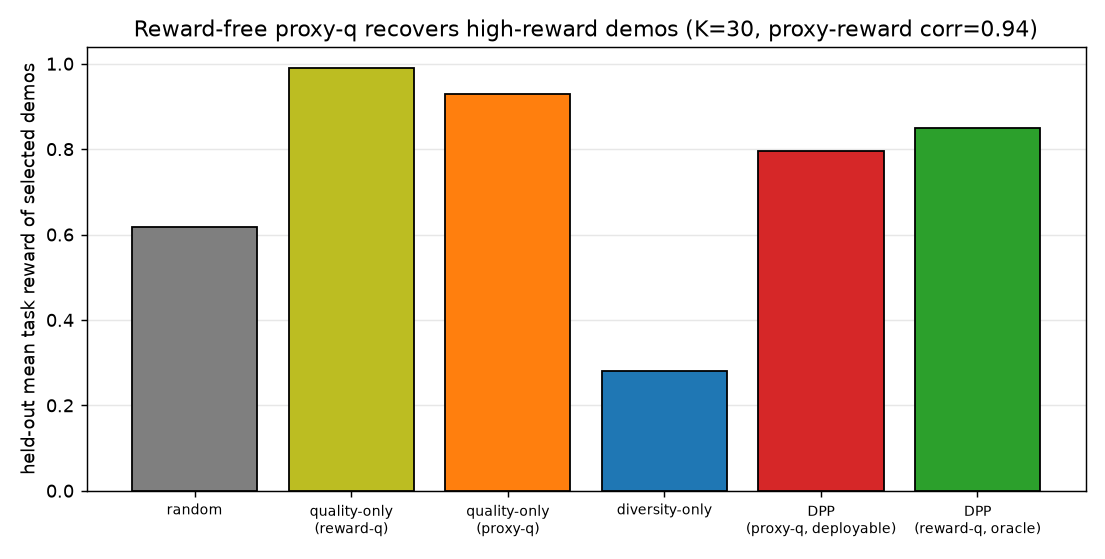
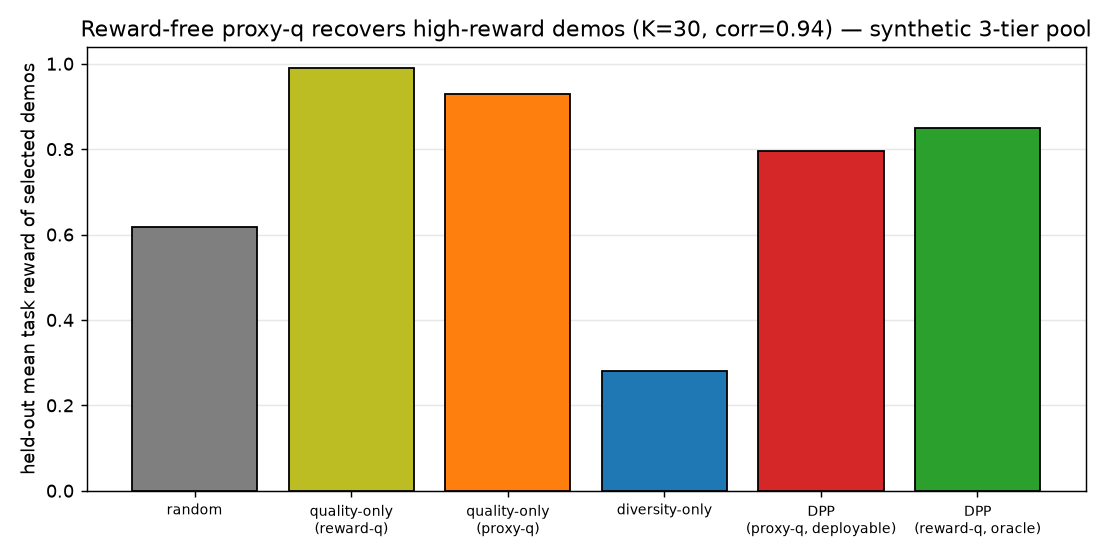
M1.5 turnkey: proxy-q study runs on real PushT/ALOHA; README status box
Generalizes experiments/proxy_vs_oracle.py to --source {synthetic,pusht,aloha}; real datasets load reward-free kinematics via the adapter (return_kinematics) and use reward terciles for the composition diagnostic. Adds a Status box to the README so synthetic sanity checks are not mistaken for robot-learning evidence, and documents the one-command real-data runs. Synthetic path unchanged; 31 tests pass.

Changed region(s): [[0.0615, 0.0304, 1.0, 0.0912]]

diff --git a/experiments/proxy_vs_oracle.py b/experiments/proxy_vs_oracle.py
@@ -1,8 +1,8 @@
-"""Milestone-2.5: offline non-circular curation study on a 3-tier pool.
+"""M1.5 / M2.5: reward-free proxy-q curation study (synthetic OR real datasets).
 
-Compares six selectors on a labeled expert/clumsy/noisy pool and evaluates every
-selection against the HELD-OUT task reward/success -- a signal the proxy-q
-selectors never read (so a proxy-q win is not circular):
+Compares six selectors and evaluates every selection against the HELD-OUT task
+reward/success -- a signal the proxy-q selectors never read (so a proxy-q win is
+not circular):
 
     random
     quality-only (reward-q)   -- oracle, quality axis only
@@ -11,16 +11,22 @@ selectors never read (so a proxy-q win is not circular):
     DPP (proxy-q)             -- deployable quality x diversity
     DPP (reward-q)            -- oracle quality x diversity
 
-Produces three figures (coverage is left as an appendix diagnostic):
-    selector_composition_synthetic.png       expert/clumsy/noisy of each pick
-    reward_free_proxy_vs_reward_synthetic.png held-out reward per selector
-    quality_diversity_pareto_synthetic.png    diversity vs held-out reward
+Sources:
+    synthetic  -- 3-tier expert/clumsy/noisy fixture (offline, $0)
+    pusht      -- lerobot/pusht                       (needs lerobot+torch)
+    aloha      -- lerobot/aloha_sim_insertion_human   (needs lerobot+torch)
 
-Usage:  python experiments/proxy_vs_oracle.py
+For real datasets there are no ground-truth tiers, so the composition diagnostic
+bins demos into reward terciles (used only for the plot, never for selection).
+
+Usage:
+    python experiments/proxy_vs_oracle.py --source synthetic
+    python experiments/proxy_vs_oracle.py --source pusht
 """
 
 from __future__ import annotations
 
+import argparse
 import sys
 from pathlib import Path
 
@@ -50,18 +56,54 @@ STYLE = {
 }
 
 
-def run(k: int = 30, out_dir: Path | None = None):
-    out_dir = Path(out_dir or Path(__file__).resolve().parents[1] / "outputs")
-    p = make_labeled_pool(seed=0)
-    X, reward, success, tier = p["embeddings"], p["reward"], p["success"], p["tier"]
+def load_pool(source: str, limit: int | None):
+    """Return a dict with embeddings, reward, success, kinematic proxies, and a
+    (name, color, mask) group spec for the composition diagnostic."""
+    if source == "synthetic":
+        p = make_labeled_pool(seed=0)
+        p["name"] = "synthetic 3-tier pool"
+        p["groups"] = [
+            ("expert", "tab:green", p["tier"] == EXPERT),
+            ("clumsy", "gold", p["tier"] == CLUMSY),
+            ("noisy", "tab:red", p["tier"] == NOISY),
+        ]
+        p["bad_label"] = "noisy%"
+        p["bad_mask"] = p["tier"] == NOISY
+        return p
 
-    q_reward = normalize_quality(reward)                                    # oracle
-    q_proxy = proxy_quality(p["smoothness"], p["efficiency"], p["stability"])  # reward-free
+    from robocurate.pusht import load_lerobot_pool  # guarded import
+
+    repo = "lerobot/pusht" if source == "pusht" else "lerobot/aloha_sim_insertion_human"
+    d = load_lerobot_pool(repo, limit=limit, return_kinematics=True)
+    r = d["reward"]
+    lo, hi = np.quantile(r, [1 / 3, 2 / 3])
+    tercile = np.digitize(r, [lo, hi])  # 0 low, 1 mid, 2 high
+    d["name"] = repo
+    d["groups"] = [
+        ("high-reward", "tab:green", tercile == 2),
+        ("mid-reward", "gold", tercile == 1),
+        ("low-reward", "tab:red", tercile == 0),
+    ]
+    d["bad_label"] = "low-reward%"
+    d["bad_mask"] = tercile == 0
+    return d
+
+
+def run(source: str = "synthetic", k: int = 30, limit: int | None = None,
+        out_dir: Path | None = None):
+    out_dir = Path(out_dir or Path(__file__).resolve().parents[1] / "outputs")
+    p = load_pool(source, limit)
+    X, reward, success = p["embeddings"], p["reward"], p["success"]
+    n = len(X)
+    k = min(k, n - 1)
+
+    q_reward = normalize_quality(reward)
+    q_proxy = proxy_quality(p["smoothness"], p["efficiency"], p["stability"])
     corr = float(np.corrcoef(q_proxy, reward)[0, 1])
 
     rng = np.random.default_rng(0)
     picks = {
-        "random": select_random(len(X), k, rng),
+        "random": select_random(n, k, rng),
         "quality-only (reward-q)": select_quality_only(q_reward, k),
         "quality-only (proxy-q)": select_quality_only(q_proxy, k),
         "diversity-only": select_diversity_only(X, k),
@@ -74,86 +116,70 @@ def run(k: int = 30, out_dir: Path | None = None):
         sel = np.asarray(sel)
         M[name] = dict(
             reward=float(np.mean(reward[sel])),
-            success=float(np.mean(success[sel])),
+            success=float(np.nanmean(success[sel])) if success.size else float("nan"),
             diversity=diversity_spread(list(sel), X),
-            expert=float(np.mean(tier[sel] == EXPERT)),
-            clumsy=float(np.mean(tier[sel] == CLUMSY)),
-            noisy=float(np.mean(tier[sel] == NOISY)),
+            bad=float(np.mean(p["bad_mask"][sel])),
+            comp=[float(np.mean(mask[sel])) for _, _, mask in p["groups"]],
         )
 
-    _print(M, k, corr)
-    _plot_composition(M, k, out_dir)
-    _plot_reward(M, k, corr, out_dir)
-    _plot_pareto(M, k, out_dir)
+    _print(M, p, k, corr)
+    _plot(M, p, source, k, corr, out_dir)
     return M
 
 
-def _print(M, k, corr):
+def _print(M, p, k, corr):
+    print(f"[data] {p['name']}: N={len(p['embeddings'])} demos, "
+          f"embedding dim={p['embeddings'].shape[1]}")
     print(f"[check] proxy-vs-reward correlation = {corr:.3f} "
           f"(informative but NOT identical -> non-circular)\n")
     print(f"=== held-out metrics of selected demos (K={k}) ===")
-    print(f"{'selector':30s} {'reward':>7s} {'success':>8s} {'divers':>7s} {'noisy%':>7s}")
+    print(f"{'selector':30s} {'reward':>7s} {'success':>8s} {'divers':>7s} "
+          f"{p['bad_label']:>11s}")
     for name, m in M.items():
         print(f"{name:30s} {m['reward']:7.3f} {m['success']:8.3f} "
-              f"{m['diversity']:7.3f} {m['noisy']:7.2f}")
+              f"{m['diversity']:7.3f} {m['bad']:11.2f}")
 
 
-def _fig(out_dir):
+def _plot(M, p, source, k, corr, out_dir):
     import matplotlib
 
     matplotlib.use("Agg")
     import matplotlib.pyplot as plt
 
     out_dir.mkdir(parents=True, exist_ok=True)
-    return plt
-
-
-def _short(names):
-    return [n.replace(" (", "\n(") for n in names]
-
-
-def _plot_composition(M, k, out_dir):
-    plt = _fig(out_dir)
     names = list(M.keys())
     x = np.arange(len(names))
-    exp = np.array([M[n]["expert"] for n in names])
-    clu = np.array([M[n]["clumsy"] for n in names])
-    noi = np.array([M[n]["noisy"] for n in names])
+    short = [n.replace(" (", "\n(") for n in names]
+
+    # 1) composition (stacked)
     fig, ax = plt.subplots(figsize=(8.5, 4.5))
-    ax.bar(x, exp, label="expert", color="tab:green", edgecolor="k")
-    ax.bar(x, clu, bottom=exp, label="clumsy", color="gold", edgecolor="k")
-    ax.bar(x, noi, bottom=exp + clu, label="noisy", color="tab:red", edgecolor="k")
-    ax.set_xticks(x)
-    ax.set_xticklabels(_short(names), rotation=0, fontsize=8)
+    bottom = np.zeros(len(names))
+    for gi, (gname, gcolor, _) in enumerate(p["groups"]):
+        vals = np.array([M[n]["comp"][gi] for n in names])
+        ax.bar(x, vals, bottom=bottom, label=gname, color=gcolor, edgecolor="k")
+        bottom += vals
+    ax.set_xticks(x); ax.set_xticklabels(short, fontsize=8)
     ax.set_ylabel("fraction of selected demos")
-    ax.set_title(f"Selected-set composition (K={k}): diversity-only over-picks noise")
+    ax.set_title(f"Selected-set composition (K={k}) — {p['name']}")
     ax.legend(loc="lower left")
     fig.tight_layout()
-    fig.savefig(out_dir / "selector_composition_synthetic.png", dpi=130)
+    fig.savefig(out_dir / f"selector_composition_{source}.png", dpi=130)
     plt.close(fig)
 
-
-def _plot_reward(M, k, corr, out_dir):
-    plt = _fig(out_dir)
-    names = list(M.keys())
-    x = np.arange(len(names))
-    vals = [M[n]["reward"] for n in names]
-    colors = [STYLE[n][0] for n in names]
+    # 2) held-out reward bar
     fig, ax = plt.subplots(figsize=(8.5, 4.3))
-    ax.bar(x, vals, color=colors, edgecolor="k", zorder=3)
-    ax.set_xticks(x)
-    ax.set_xticklabels(_short(names), rotation=0, fontsize=8)
+    ax.bar(x, [M[n]["reward"] for n in names],
+           color=[STYLE[n][0] for n in names], edgecolor="k", zorder=3)
+    ax.set_xticks(x); ax.set_xticklabels(short, fontsize=8)
     ax.set_ylabel("held-out mean task reward of selected demos")
-    ax.set_title(f"Reward-free proxy-q recovers high-reward demos (K={k}, "
-                 f"proxy-reward corr={corr:.2f})")
+    ax.set_title(f"Reward-free proxy-q recovers high-reward demos "
+                 f"(K={k}, corr={corr:.2f}) — {p['name']}")
     ax.grid(axis="y", alpha=0.3)
     fig.tight_layout()
-    fig.savefig(out_dir / "reward_free_proxy_vs_reward_synthetic.png", dpi=130)
+    fig.savefig(out_dir / f"reward_free_proxy_vs_reward_{source}.png", dpi=130)
     plt.close(fig)
 
-
-def _plot_pareto(M, k, out_dir):
-    plt = _fig(out_dir)
+    # 3) quality-diversity pareto
     fig, ax = plt.subplots(figsize=(6.5, 5))
     for name, m in M.items():
         c, mk = STYLE[name]
@@ -161,13 +187,25 @@ def _plot_pareto(M, k, out_dir):
                    edgecolor="k", label=name, zorder=3)
     ax.set_xlabel("diversity (mean pairwise distance in selected)  → more diverse")
     ax.set_ylabel("held-out mean task reward  → better")
-    ax.set_title(f"Quality–diversity trade-off (K={k})")
+    ax.set_title(f"Quality–diversity trade-off (K={k}) — {p['name']}")
     ax.legend(fontsize=8, loc="lower center")
     ax.grid(alpha=0.3)
     fig.tight_layout()
-    fig.savefig(out_dir / "quality_diversity_pareto_synthetic.png", dpi=130)
+    fig.savefig(out_dir / f"quality_diversity_pareto_{source}.png", dpi=130)
     plt.close(fig)
+    print(f"\n[out] wrote 3 figures to {out_dir}/ (suffix _{source})")
+
+
+def main():
+    ap = argparse.ArgumentParser()
+    ap.add_argument("--source", default="synthetic",
+                    choices=["synthetic", "pusht", "aloha"])
+    ap.add_argument("--k", type=int, default=30)
+    ap.add_argument("--limit", type=int, default=None)
+    ap.add_argument("--out", default=None)
+    args = ap.parse_args()
+    run(args.source, args.k, args.limit, Path(args.out) if args.out else None)
 
 
 if __name__ == "__main__":
-    run()
+    main()

diff --git a/README.md b/README.md
@@ -12,6 +12,21 @@
 **Research question:** *Can cheap, non-expert human demonstrations be made more
 useful through automatic informativeness-aware curation?*
 
+## Status
+
+| stage | what | state |
+|-------|------|-------|
+| **M1**   | quality×diversity DPP engine + ablation            | ✅ done, offline-verified (31 tests) |
+| **M2.5** | reward-free proxy-q, non-circular study            | ✅ done, offline (synthetic) |
+| **M1.5** | run on public datasets (PushT, ALOHA-sim)          | ⏳ one command — `--source pusht` |
+| **M2**   | mouse-teleop non-expert collection                 | ⬜ planned |
+| **M3**   | downstream Diffusion Policy (curated vs random)    | ⬜ planned |
+
+> ⚠️ The results below are a **controlled synthetic sanity check** — they verify
+> the method and reproduce the expected failure modes, and are **not**
+> robot-learning evidence. Public-dataset (PushT / ALOHA-sim) results are the
+> validation step (M1.5).
+
 ---
 
 ## The idea in one figure
@@ -104,8 +119,9 @@ pip install -r requirements.txt          # numpy + matplotlib only
 bash scripts/verify_offline.sh
 
 # 2) real data (needs the optional extras: pip install lerobot torch)
-python experiments/run_ablation.py --source pusht
-python experiments/run_ablation.py --source aloha   # cross-dataset hedge
+python experiments/run_ablation.py --source pusht          # M1.5: 4-selector ablation
+python experiments/proxy_vs_oracle.py --source pusht        # M1.5: 6-selector proxy-q study
+python experiments/proxy_vs_oracle.py --source aloha        # cross-dataset hedge
 ```
 
 ## Method details